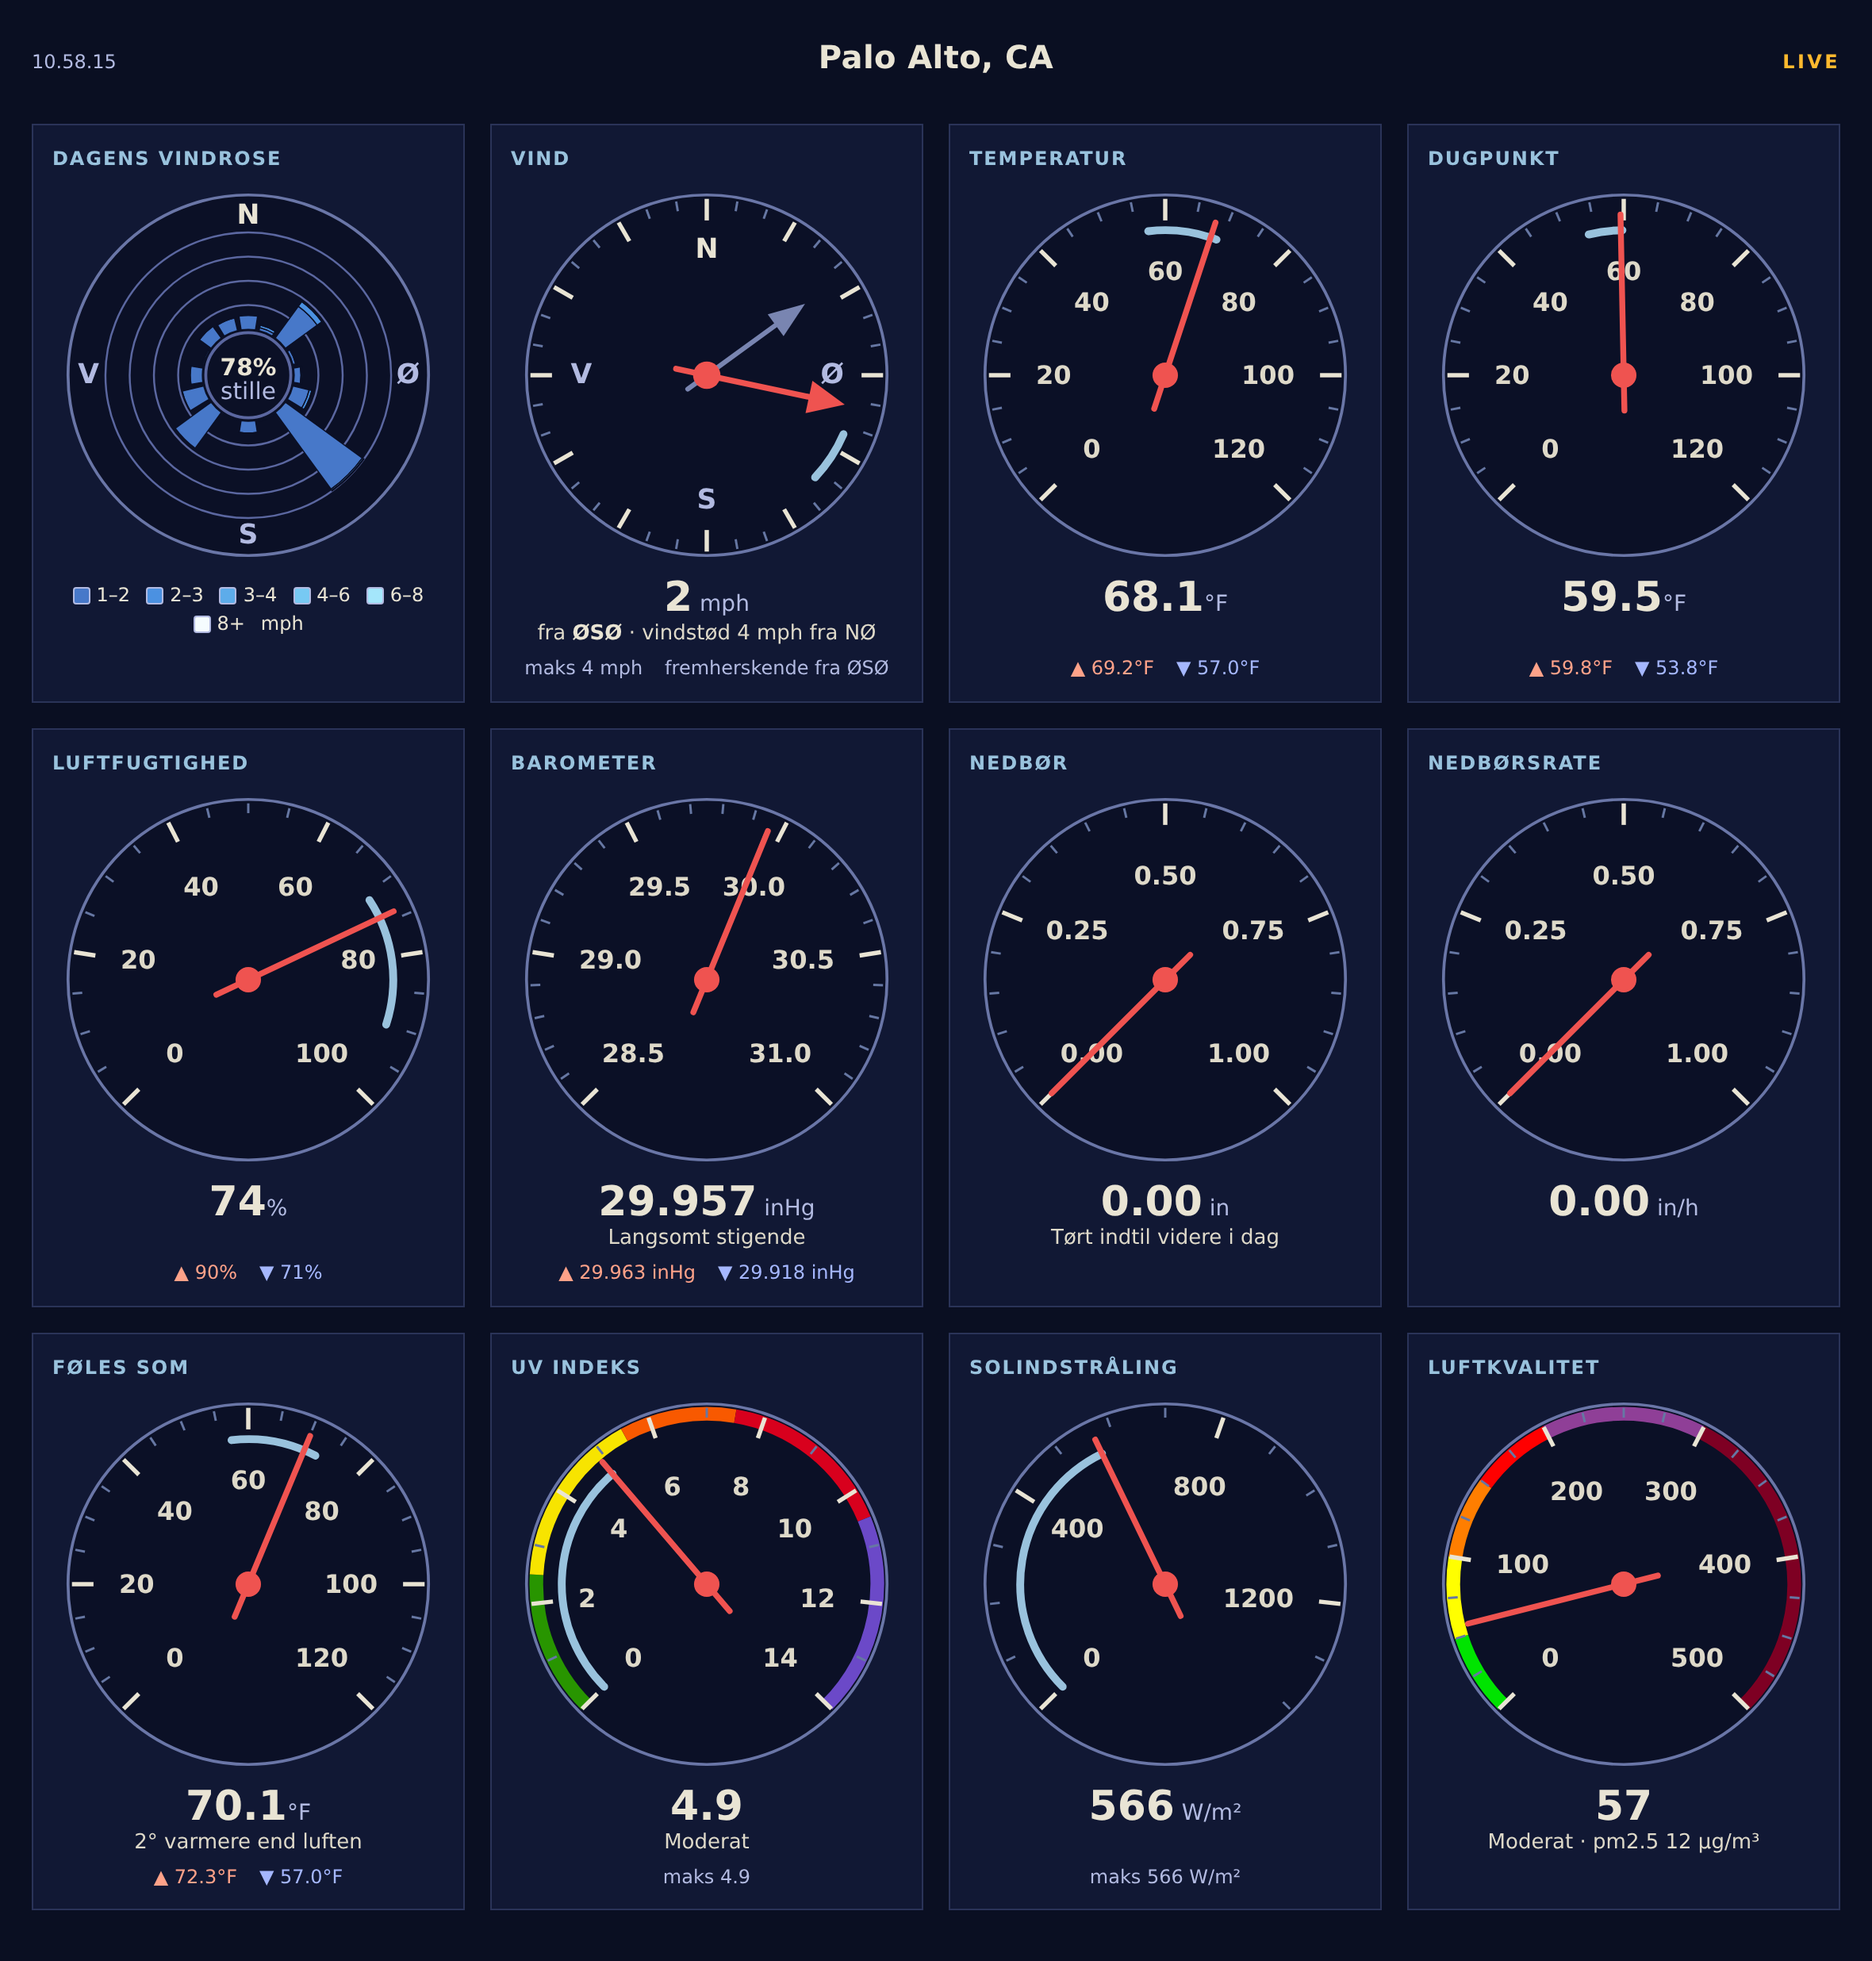
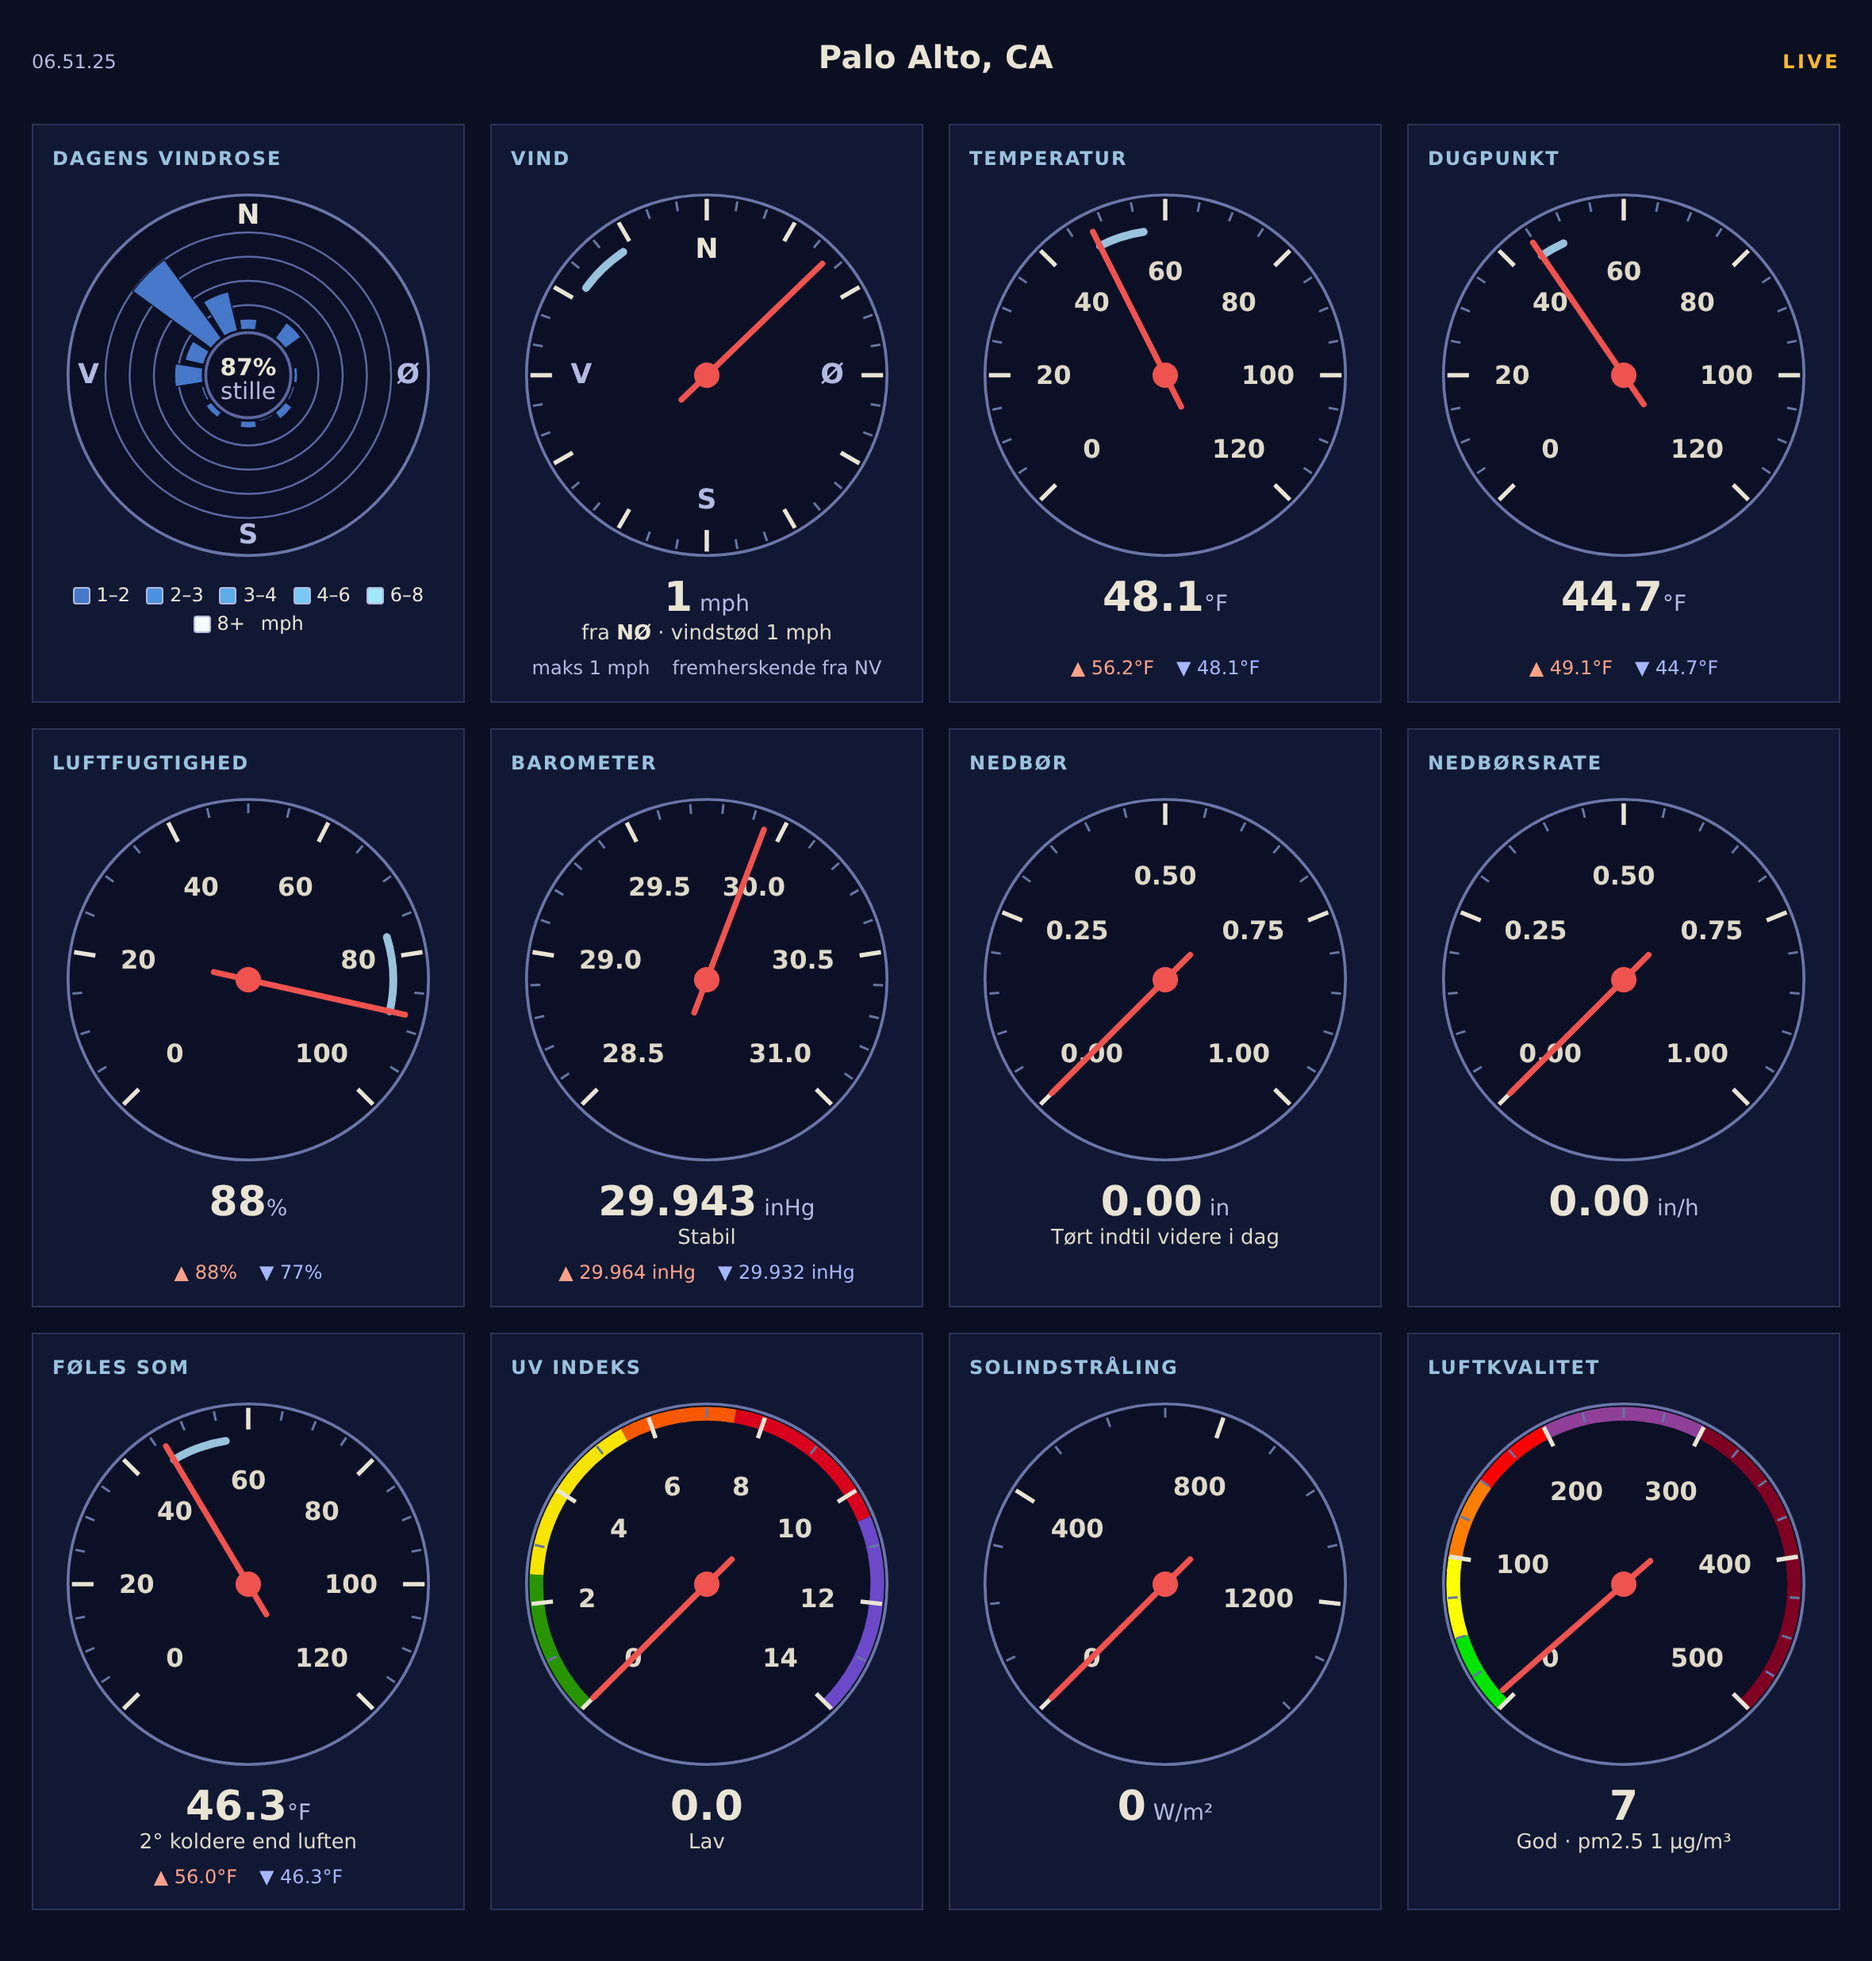
The sample report's wind compass points with the same red arm as the dials beside it, and its gust with a plain lighter needle, where both used to carry arrowheads that invited reading the tip as the way the wind is going; in a calm the hub takes the gust's color, and the barometer's trend arc is dr

diff --git a/docs/sample-skin.md b/docs/sample-skin.md
@@ -29,13 +29,15 @@ today's high above its low.
 * Temperature, dew point, feels-like and humidity dials draw today's
   low-to-high as an arc inside the ticks.  Feels like says how far it is
   from the air temperature.
-* The wind compass points its needle at the side the wind comes from, with
-  a lighter, shorter needle for the strongest gust of the last ten
-  minutes, and today's prevailing direction as a short arc.  Under it:
+* The wind compass points the dials' red arm at the side the wind comes
+  from, with a lighter, shorter needle for the strongest gust of the last
+  ten minutes, and today's prevailing direction as a short arc.  Under it:
   "from WNW · gusting 14 mph from W", today's peak and the prevailing
   direction in words.
 * The barometer draws the 3-hour trend as an arc, headed in the direction
-  of travel, and says it in words (`trend.barometer.desc`).
+  of travel, once the change is big enough to draw — about 1.3 hPa
+  (0.04 inHg) — and says it in words (`trend.barometer.desc`) either
+  way.
 * UV and air quality wear their EPA category colors on the rim, and say
   the category: "High" at a UV index of 6, "Good" at an AQI of 38.  EPA
   names the UV index rounded, so the page does too.  The air quality dial

diff --git a/changes.md b/changes.md
@@ -1,5 +1,17 @@
 # weewx-loopdata change history
 
+## 7.x (in progress)
+- The sample report's wind compass points with the same red arm as the
+  dials beside it, and the gust with a plain lighter needle; both used to
+  carry arrowheads.  The tip marks where the wind comes from, and an
+  arrowhead invited reading it the other way, as the way the wind is
+  going.  In a calm, with no red arm to carry, the hub takes the gust
+  needle's color.
+- The barometer's trend arc is drawn only when the change is big enough
+  to show its head, about 1.3 hPa (0.04 inHg) over the trend window.  A
+  smaller change used to draw a sliver too small to see or to read as an
+  arrow.
+
 ## 7.5.1 2026/09/23
 - The sample report's windrose sits on a dial face of its own, rimmed
   like the gauges beside it with the compass letters inside, and that face
